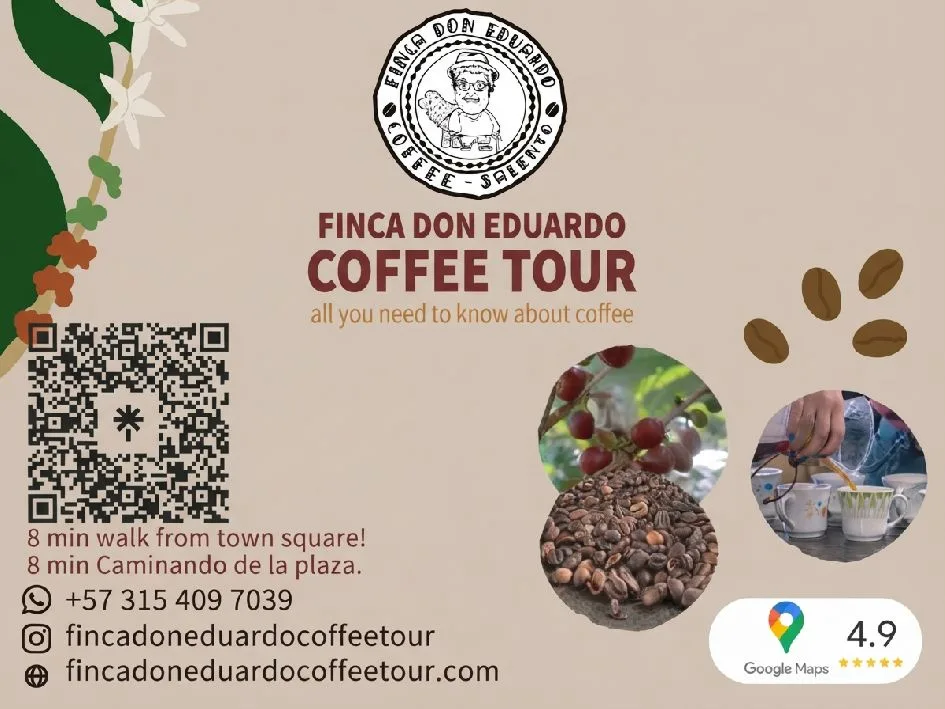
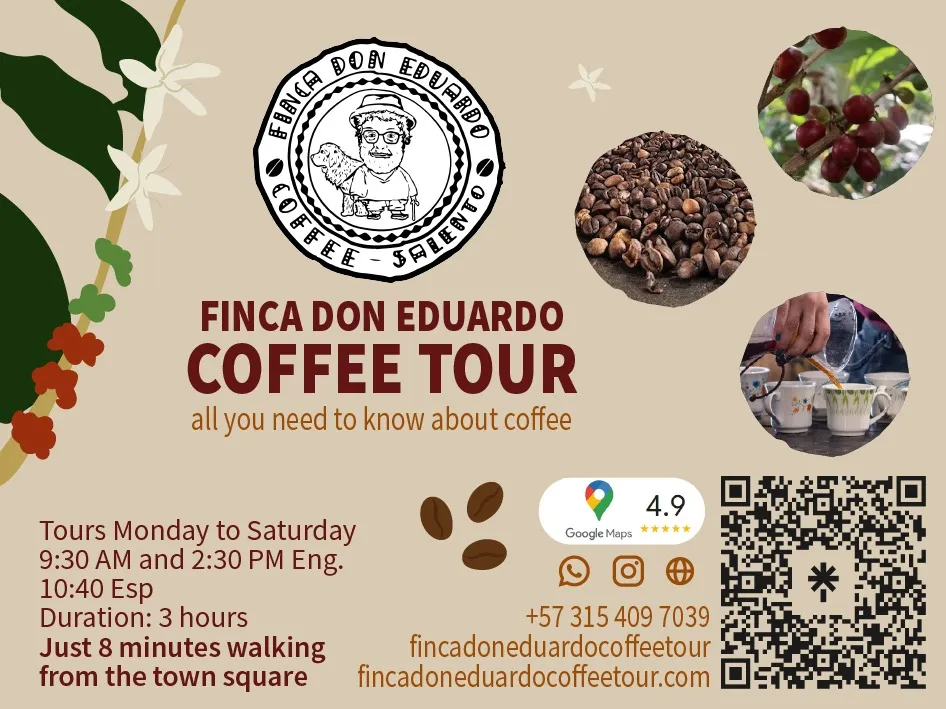
Finca Don Eduardo: textos nuevos, 8 min de la plaza y arte actualizado

diff --git a/public/paginas-pautantes/finca-don-eduardo-coffee-tour/index.html b/public/paginas-pautantes/finca-don-eduardo-coffee-tour/index.html
@@ -3,20 +3,20 @@
   <head>
     <meta charset="UTF-8" />
     <meta name="viewport" content="width=device-width, initial-scale=1.0" />
-    <meta name="description" content="Coffee tour con Don Eduardo en Salento: $100.000 COP por persona, salidas en inglés y español, ~3 horas. A 4 km de la plaza, Willys/Jeep $9.000. Reserva previa." />
+    <meta name="description" content="Coffee tour de 3 horas en Salento: historia, proceso del café, tostión artesanal y taza final. $100.000 · Inglés 9:30/2:30 · Español 10:40 · 8 min caminando de la plaza." />
     <title>Finca Don Eduardo Coffee Tour | Vive Salento directamente</title>
     <link rel="canonical" href="https://www.salentoalamano.com/paginas-pautantes/finca-don-eduardo-coffee-tour/" />
     <meta property="og:type" content="website" />
     <meta property="og:site_name" content="Salento a la Mano" />
     <meta property="og:title" content="Finca Don Eduardo Coffee Tour | Vive Salento directamente" />
-    <meta property="og:description" content="Coffee tour con Don Eduardo en Salento: $100.000 COP por persona, salidas en inglés y español, ~3 horas. A 4 km de la plaza, Willys/Jeep $9.000. Reserva previa." />
+    <meta property="og:description" content="Coffee tour de 3 horas en Salento: historia, proceso del café, tostión artesanal y taza final. $100.000 · Inglés 9:30/2:30 · Español 10:40 · 8 min caminando de la plaza." />
     <meta property="og:url" content="https://www.salentoalamano.com/paginas-pautantes/finca-don-eduardo-coffee-tour/" />
-    <meta property="og:image" content="https://www.salentoalamano.com/pautas/coffee-tour-finca-don-eduardo/imagenes/IMG_0224.webp" />
+    <meta property="og:image" content="https://www.salentoalamano.com/pautas/coffee-tour-finca-don-eduardo/eduardo-arte-publicitario.webp" />
     <meta property="og:locale" content="es_CO" />
     <meta name="twitter:card" content="summary_large_image" />
     <meta name="twitter:title" content="Finca Don Eduardo Coffee Tour | Vive Salento directamente" />
-    <meta name="twitter:description" content="Coffee tour con Don Eduardo en Salento: $100.000 COP por persona, salidas en inglés y español, ~3 horas. A 4 km de la plaza, Willys/Jeep $9.000. Reserva previa." />
-    <meta name="twitter:image" content="https://www.salentoalamano.com/pautas/coffee-tour-finca-don-eduardo/imagenes/IMG_0224.webp" />
+    <meta name="twitter:description" content="Coffee tour de 3 horas en Salento: historia, proceso del café, tostión artesanal y taza final. $100.000 · Inglés 9:30/2:30 · Español 10:40 · 8 min caminando de la plaza." />
+    <meta name="twitter:image" content="https://www.salentoalamano.com/pautas/coffee-tour-finca-don-eduardo/eduardo-arte-publicitario.webp" />
     <style>
       @import url('https://fonts.googleapis.com/css2?family=DM+Sans:wght@400;500;600;700&family=Fraunces:opsz,wght@9..144,500;9..144,600&display=swap');
       :root { --paper:#f5f1e8; --ink:#1f2d26; --muted:#59665f; --line:#d9d0bf; --coral:#dd7f5d; --yellow:#e7c77b; --white:#fff; }
@@ -28,7 +28,7 @@
       .hero { display:grid; grid-template-columns:1.1fr .9fr; gap:24px; align-items:stretch; } .hero-copy,.hero-image,.section { background:var(--white); border:1px solid var(--line); border-radius:24px; }
       .hero-copy { padding:34px; } .eyebrow { color:var(--coral); text-transform:uppercase; letter-spacing:.12em; font-size:11px; font-weight:700; }
       h1 { font-size:clamp(2.3rem,5vw,4.8rem); line-height:1.02; margin:14px 0; } .lead { color:var(--muted); line-height:1.7; font-size:1.08rem; max-width:650px; }
-      .hero-image { min-height:360px; background:linear-gradient(rgba(0,0,0,.08),rgba(0,0,0,.25)),url('/pautas/coffee-tour-finca-don-eduardo/imagenes/IMG_0224.webp') center/cover; }
+      .hero-image { min-height:360px; background:linear-gradient(rgba(0,0,0,.08),rgba(0,0,0,.25)),url('/pautas/coffee-tour-finca-don-eduardo/eduardo-arte-publicitario.webp') center/cover; }
       .highlights { display:flex; flex-wrap:wrap; gap:8px; margin:22px 0; } .highlight,.tag { padding:8px 11px; border:1px solid var(--line); border-radius:999px; background:#f3ead6; font-size:12px; font-weight:700; }
       .section { padding:26px; margin-top:24px; } h2 { margin:0 0 16px; font-size:1.5rem; } .two-col { display:grid; grid-template-columns:1fr 1fr; gap:24px; }
       .gallery { display:grid; grid-template-columns:repeat(3,1fr); gap:12px; } .gallery img { width:100%; height:190px; object-fit:cover; border-radius:16px; border:1px solid var(--line); }
@@ -40,22 +40,22 @@
     <link rel="stylesheet" href="/page-theme.css" />
     <link rel="stylesheet" href="/pautante-theme.css" />
     <script type="application/ld+json">{"@context":"https://schema.org","@type":"BreadcrumbList","itemListElement":[{"@type":"ListItem","position":1,"name":"Inicio","item":"https://www.salentoalamano.com/"},{"@type":"ListItem","position":2,"name":"Coffee Tours","item":"https://www.salentoalamano.com/categorias/coffee-tours.html"},{"@type":"ListItem","position":3,"name":"Finca Don Eduardo Coffee Tour"}]}</script>
-    <script type="application/ld+json">{"@context":"https://schema.org","@type":"LocalBusiness","name":"Finca Don Eduardo Coffee Tour","description":"Coffee tour con Don Eduardo en Salento: $100.000 COP por persona, salidas en inglés y español, ~3 horas. A 4 km de la plaza, Willys/Jeep $9.000. Reserva previa.","url":"https://www.salentoalamano.com/paginas-pautantes/finca-don-eduardo-coffee-tour/","image":"https://www.salentoalamano.com/pautas/coffee-tour-finca-don-eduardo/imagenes/IMG_0224.webp","address":{"@type":"PostalAddress","addressLocality":"Salento","addressRegion":"Quindío","addressCountry":"CO","streetAddress":"Calle 7 # 1 - 04, Salento, Quindío"},"geo":{"@type":"GeoCoordinates","latitude":4.638,"longitude":-75.569},"telephone":"+57 315 409 7039","email":"theplantationhousesalento@yahoo.co.uk","priceRange":"$$","areaServed":{"@type":"City","name":"Salento","containedIn":{"@type":"State","name":"Quindío"}},"aggregateRating":{"@type":"AggregateRating","ratingValue":4.9,"reviewCount":1,"bestRating":5,"worstRating":1},"openingHoursSpecification":{"@type":"OpeningHoursSpecification","dayOfWeek":["Monday","Tuesday","Wednesday","Thursday","Friday","Saturday","Sunday"]}}</script>
+    <script type="application/ld+json">{"@context":"https://schema.org","@type":"LocalBusiness","name":"Finca Don Eduardo Coffee Tour","description":"Coffee tour de 3 horas en Salento: historia, proceso del café, tostión artesanal y taza final. $100.000 · Inglés 9:30/2:30 · Español 10:40 · 8 min caminando de la plaza.","url":"https://www.salentoalamano.com/paginas-pautantes/finca-don-eduardo-coffee-tour/","image":"https://www.salentoalamano.com/pautas/coffee-tour-finca-don-eduardo/eduardo-arte-publicitario.webp","address":{"@type":"PostalAddress","addressLocality":"Salento","addressRegion":"Quindío","addressCountry":"CO","streetAddress":"Calle 7 # 1 - 04, Salento, Quindío"},"geo":{"@type":"GeoCoordinates","latitude":4.638,"longitude":-75.569},"telephone":"+57 315 409 7039","email":"theplantationhousesalento@yahoo.co.uk","priceRange":"$$","areaServed":{"@type":"City","name":"Salento","containedIn":{"@type":"State","name":"Quindío"}},"aggregateRating":{"@type":"AggregateRating","ratingValue":4.9,"reviewCount":1,"bestRating":5,"worstRating":1},"openingHoursSpecification":{"@type":"OpeningHoursSpecification","dayOfWeek":["Monday","Tuesday","Wednesday","Thursday","Friday","Saturday","Sunday"]}}</script>
   </head>
   <body>
     <main class="container">
       <header class="topbar"><a class="brand" href="/"><img src="/logo_salento2026.webp" alt="Salento a la Mano" class="brand-logo" style="width:64px;height:64px;object-fit:contain;border-radius:50%"/><span>Salento a la Mano</span><span aria-hidden="true" style="opacity:.4">×</span><img src="/pautas/coffee-tour-finca-don-eduardo/imagenes/logo-finca-don-eduardo.webp" alt="Logo pautante" class="brand-logo" style="width:64px;height:64px;object-fit:contain;border-radius:50%;border:1px solid var(--line)" /></a><nav class="top-actions"><a class="button" href="/">Inicio</a><a class="button" href="/categorias/coffee-tours.html">Ver categoría</a></nav></header>
       <section class="hero">
-        <div class="hero-copy"><div class="eyebrow">Coffee Tours · contacto directo</div><h1>Finca Don Eduardo Coffee Tour</h1><p class="lead">Coffee tour con Don Eduardo en Salento: $100.000 COP por persona, salidas en inglés y español, ~3 horas. A 4 km de la plaza, Willys/Jeep $9.000. Reserva previa.</p>
-          <div class="highlights"><span class="highlight">Duración: 3 horas</span><span class="highlight">Rango: $$</span><span class="highlight">Inglés 9:30 a.m. · 2:30 p.m. · Español 10:40 a.m.</span></div>
+        <div class="hero-copy"><div class="eyebrow">Coffee Tours · contacto directo</div><h1>Finca Don Eduardo Coffee Tour</h1><p class="lead">Finca Don Eduardo: todo lo que necesitas saber sobre café. El proyecto empezó con Don Eduardo y es la continuación de su legado de más de 15 años enseñando a turistas de todo el mundo cómo se cultiva el café en el Quindío. Es uno de los recorridos más completos: conocerás la historia, visitarás la finca, verás el proceso completo y entenderás los procesos orgánicos que manejan, terminando con una tostión artesanal y una taza de café.</p>
+          <div class="highlights"><span class="highlight">Duración: 3 horas</span><span class="highlight">$100.000 COP</span><span class="highlight">Inglés 9:30 a.m. · 2:30 p.m. · Español 10:40 a.m.</span><span class="highlight">A 8 min caminando de la plaza</span></div>
           <div class="actions"><a class="button primary" href="https://wa.me/573154097039" target="_blank" rel="noreferrer">Reservar por WhatsApp</a><a class="button dark" href="tel:+573154097039">Llamar ahora</a><a class="button" href="https://www.google.com/maps/search/Calle%207%20%23%201%20-%2004%2C%20Salento%2C%20Quind%C3%ADo" target="_blank" rel="noreferrer">Cómo llegar</a><a class="button" href="https://fincadoneduardocoffeetour.com" target="_blank" rel="noreferrer">Sitio oficial</a></div>
         </div><div class="hero-image" aria-label="Finca Don Eduardo Coffee Tour"></div>
       </section>
       
-      <section class="section service-section"><h2>Plan de la experiencia</h2><div class="service-grid"><div><strong>Incluye</strong><ul><li>Tour completo del proceso del café</li><li>Degustación de café</li><li>Guía certificado</li><li>Información educativa</li></ul><strong>Qué llevar</strong><ul><li>Ropa cómoda</li><li>Calzado para caminar</li></ul></div><div><strong>Duración</strong><p>3 horas</p><strong>Dificultad</strong><p>Fácil</p><strong>Punto de encuentro</strong><p>Finca Don Eduardo · 4 km a pie o Willys/Jeep desde la plaza ($9.000)</p><strong>Idiomas</strong><p>Inglés, Español</p><strong>Tarifas verificadas</strong><p>$100.000 COP por persona. Salidas en inglés 9:30 a.m. y 2:30 p.m.; en español 10:40 a.m. con reserva previa.</p></div></div><div class="actions"><a class="button primary" href="https://wa.me/573154097039">Reservar experiencia</a></div></section>
+      <section class="section service-section"><h2>Plan de la experiencia</h2><div class="service-grid"><div><strong>Incluye</strong><ul><li>Historia y proceso completo del café</li><li>Recorrido por semillero, cafetal, beneficio y secadero</li><li>Procesos orgánicos de la finca</li><li>Tostión artesanal</li><li>Taza de café</li></ul><strong>Qué llevar</strong><ul><li>Ropa cómoda</li><li>Calzado para caminar</li></ul></div><div><strong>Duración</strong><p>3 horas</p><strong>Dificultad</strong><p>Fácil</p><strong>Punto de encuentro</strong><p>Finca Don Eduardo · a 8 min caminando de la plaza</p><strong>Idiomas</strong><p>Inglés, Español</p><strong>Tarifas verificadas</strong><p>$100.000 COP por persona. Salidas en inglés 9:30 a.m. y 2:30 p.m. (sin reserva); en español 10:40 a.m. (recomendamos reservar).</p></div></div><div class="actions"><a class="button primary" href="https://wa.me/573154097039">Reservar experiencia</a></div></section>
       
-      <section class="section"><h2>Conoce la experiencia</h2><div class="two-col"><div><p class="trust">Coffee tour con Don Eduardo en Salento: $100.000 COP por persona, salidas en inglés y español, ~3 horas. A 4 km de la plaza, Willys/Jeep $9.000. Reserva previa.</p><p class="verified">✓ Información verificada en el catálogo local</p></div><div class="facts"><div class="fact"><strong>Ubicación</strong>Calle 7 # 1 - 04, Salento, Quindío</div><div class="fact"><strong>Referencia</strong>4 km a pie desde Salento · Willys/Jeep desde la plaza $9.000</div><div class="fact"><strong>Horario</strong>Salidas en inglés 9:30 a.m. y 2:30 p.m.; en español 10:40 a.m. (requiere reserva previa). $100.000 COP por persona.</div></div></div></section>
-      <section class="section"><h2>Galería de imágenes</h2><div class="gallery"><img src="/pautas/coffee-tour-finca-don-eduardo/imagenes/IMG_0224.webp" alt="Finca Don Eduardo Coffee Tour foto 1" loading="lazy"/><img src="/pautas/coffee-tour-finca-don-eduardo/imagenes/IMG_0366.webp" alt="Finca Don Eduardo Coffee Tour foto 2" loading="lazy"/><img src="/pautas/coffee-tour-finca-don-eduardo/imagenes/IMG_0372.webp" alt="Finca Don Eduardo Coffee Tour foto 3" loading="lazy"/><img src="/pautas/coffee-tour-finca-don-eduardo/imagenes/IMG_9320.webp" alt="Finca Don Eduardo Coffee Tour foto 4" loading="lazy"/><img src="/pautas/coffee-tour-finca-don-eduardo/imagenes/IMG_9326.webp" alt="Finca Don Eduardo Coffee Tour foto 5" loading="lazy"/><img src="/pautas/coffee-tour-finca-don-eduardo/imagenes/IMG_9360_1.webp" alt="Finca Don Eduardo Coffee Tour foto 6" loading="lazy"/></div></section>
+      <section class="section"><h2>Conoce la experiencia</h2><div class="two-col"><div><p class="trust">Finca Don Eduardo es el sueño de un hombre inglés y su esposa colombiana, pioneros del turismo en Salento. Hoy la finca sigue funcionando en manos de su hija, una caficultora que ha decidido honrar su historia familiar continuando una de las experiencias de café mejor valoradas de Salento.</p><p class="trust">El recorrido de 3 horas empieza con la historia del café y pasa por todo el proceso de la finca: el semillero, el cafetal, el beneficio y el secadero, y finaliza con una tostión artesanal y una taza de café para conocer mejor sus sabores.</p><p class="trust">Nuestros recorridos en inglés (9:30 y 2:30) no requieren reserva; también tenemos el tour en español a las 10:40 y para esta opción recomendamos reservar.</p><p class="verified">✓ Información verificada en el catálogo local</p></div><div class="facts"><div class="fact"><strong>Ubicación</strong>Calle 7 # 1 - 04, Salento, Quindío</div><div class="fact"><strong>Referencia</strong>A 8 min caminando de la plaza</div><div class="fact"><strong>Horario</strong>Inglés 9:30 a.m. y 2:30 p.m. (sin reserva); español 10:40 a.m. (recomendamos reservar). $100.000 COP por persona.</div></div></div></section>
+      <section class="section"><h2>Galería de imágenes</h2><div class="gallery"><img src="/pautas/coffee-tour-finca-don-eduardo/eduardo-arte-publicitario.webp" alt="Finca Don Eduardo Coffee Tour arte oficial" loading="lazy"/><img src="/pautas/coffee-tour-finca-don-eduardo/imagenes/IMG_0224.webp" alt="Finca Don Eduardo Coffee Tour foto 1" loading="lazy"/><img src="/pautas/coffee-tour-finca-don-eduardo/imagenes/IMG_0366.webp" alt="Finca Don Eduardo Coffee Tour foto 2" loading="lazy"/><img src="/pautas/coffee-tour-finca-don-eduardo/imagenes/IMG_0372.webp" alt="Finca Don Eduardo Coffee Tour foto 3" loading="lazy"/><img src="/pautas/coffee-tour-finca-don-eduardo/imagenes/IMG_9320.webp" alt="Finca Don Eduardo Coffee Tour foto 4" loading="lazy"/><img src="/pautas/coffee-tour-finca-don-eduardo/imagenes/IMG_9326.webp" alt="Finca Don Eduardo Coffee Tour foto 5" loading="lazy"/><img src="/pautas/coffee-tour-finca-don-eduardo/imagenes/IMG_9360_1.webp" alt="Finca Don Eduardo Coffee Tour foto 6" loading="lazy"/></div></section>
       
       <section class="section" id="menu-interactivo">
         <h2>Tours y experiencias</h2>
@@ -89,12 +89,12 @@
           </div>
         </div>
       </div>
-      <section class="section"><h2>Antes de confirmar tu visita</h2><div class="two-col"><div><p class="trust">¿Cuál es el horario de Finca Don Eduardo Coffee Tour? Salidas en inglés 9:30 a.m. y 2:30 p.m.; en español 10:40 a.m. (requiere reserva previa). $100.000 COP por persona.</p><p class="trust">¿Cuánto cuesta? $100.000 COP por persona. Salidas en inglés 9:30 a.m. y 2:30 p.m.; en español 10:40 a.m. con reserva previa.</p><p class="trust">¿Cómo reservo? Contacto directo por WhatsApp, sin intermediarios ni comisiones.</p></div><div class="facts"><div class="fact"><strong>Punto de encuentro</strong>Finca Don Eduardo · 4 km a pie o Willys/Jeep desde la plaza ($9.000)</div><div class="fact"><strong>Cómo llegar</strong><a href="https://www.google.com/maps/search/Calle%207%20%23%201%20-%2004%2C%20Salento%2C%20Quind%C3%ADo" target="_blank" rel="noreferrer">Abrir en Google Maps</a></div><div class="fact"><strong>Reseñas</strong>Las reseñas se publican en la ficha interactiva del directorio</div></div></div></section>
+      <section class="section"><h2>Antes de confirmar tu visita</h2><div class="two-col"><div><p class="trust">¿Cuál es el horario de Finca Don Eduardo Coffee Tour? Salidas en inglés 9:30 a.m. y 2:30 p.m. (no requieren reserva); en español 10:40 a.m. (recomendamos reservar). $100.000 COP por persona.</p><p class="trust">¿Cuánto cuesta? $100.000 COP por persona por un recorrido de 3 horas que incluye tostión artesanal y una taza de café.</p><p class="trust">¿Cómo reservo? Contacto directo por WhatsApp, sin intermediarios ni comisiones.</p></div><div class="facts"><div class="fact"><strong>Punto de encuentro</strong>Finca Don Eduardo · a 8 min caminando de la plaza</div><div class="fact"><strong>Cómo llegar</strong><a href="https://www.google.com/maps/search/Calle%207%20%23%201%20-%2004%2C%20Salento%2C%20Quind%C3%ADo" target="_blank" rel="noreferrer">Abrir en Google Maps</a></div><div class="fact"><strong>Reseñas</strong>Las reseñas se publican en la ficha interactiva del directorio</div></div></div></section>
       <section class="section"><h2>Lo que puedes encontrar</h2><div class="tags"><span class="tag">coffee tour</span><span class="tag">finca cafetera</span><span class="tag">tour de café</span><span class="tag">inglés</span><span class="tag">español</span><span class="tag">salento</span></div></section>
       <nav class="bottom-nav" aria-label="Volver" style="display:flex;flex-wrap:wrap;gap:10px;margin-top:28px"><a class="button primary" href="/">Volver al inicio</a><a class="button dark" href="/">Ir a página principal</a><a class="button" href="/categorias/">Ver categorías</a></nav>
     </main>
     
     <script src="/pautante-common.js"></script>
-    <script>PautanteCommon.initMenu({"containerId":"menuGrid","items":[{"id":1,"cat":"tours","nombre":"English Coffee Tour","precio":100000,"desc":"3 horas · Lun–sáb 9:30 AM y 2:30 PM","img":"/pautas/coffee-tour-finca-don-eduardo/imagenes/IMG_0224.webp"},{"id":2,"cat":"tours","nombre":"Recorrido en Español","precio":100000,"desc":"3 horas · Lun–sáb 10:40 AM · requiere reserva previa · mín. 2 personas","img":"/pautas/coffee-tour-finca-don-eduardo/imagenes/IMG_0366.webp"},{"id":3,"cat":"cotizar","nombre":"Private Tour personalizado","precio":0,"desc":"Cotización directa · pago con tarjeta +6%","img":"/pautas/coffee-tour-finca-don-eduardo/imagenes/IMG_0372.webp"},{"id":4,"cat":"incluye","nombre":"Historia y proceso del café","precio":0,"desc":"","img":"/pautas/coffee-tour-finca-don-eduardo/imagenes/IMG_0736.webp"},{"id":5,"cat":"incluye","nombre":"Visita a plantación","precio":0,"desc":"","img":"/pautas/coffee-tour-finca-don-eduardo/imagenes/IMG_3229.webp"},{"id":6,"cat":"incluye","nombre":"Tostión y molienda del propio café","precio":0,"desc":"","img":"/pautas/coffee-tour-finca-don-eduardo/imagenes/IMG_8454.webp"},{"id":7,"cat":"incluye","nombre":"Degustación de café especial","precio":0,"desc":"","img":"/pautas/coffee-tour-finca-don-eduardo/imagenes/IMG_9079.webp"}],"categories":[{"id":"todas","label":"Todas"},{"id":"tours","label":"Tours"},{"id":"cotizar","label":"Cotizar"},{"id":"incluye","label":"Incluye"}],"whatsapp":"573154097039","businessName":"Finca Don Eduardo Coffee Tour","currency":"COP","showSearch":true,"showCurrency":true,"precioLabel":"por persona"});</script>
+    <script>PautanteCommon.initMenu({"containerId":"menuGrid","items":[{"id":1,"cat":"tours","nombre":"English Coffee Tour","precio":100000,"desc":"3 horas · Lun–sáb 9:30 AM y 2:30 PM · sin reserva","img":"/pautas/coffee-tour-finca-don-eduardo/imagenes/IMG_0224.webp"},{"id":2,"cat":"tours","nombre":"Recorrido en Español","precio":100000,"desc":"3 horas · Lun–sáb 10:40 AM · requiere reserva previa · mín. 2 personas","img":"/pautas/coffee-tour-finca-don-eduardo/imagenes/IMG_0366.webp"},{"id":3,"cat":"cotizar","nombre":"Private Tour personalizado","precio":0,"desc":"Cotización directa · pago con tarjeta +6%","img":"/pautas/coffee-tour-finca-don-eduardo/imagenes/IMG_0372.webp"},{"id":4,"cat":"incluye","nombre":"Historia y proceso del café","precio":0,"desc":"","img":"/pautas/coffee-tour-finca-don-eduardo/imagenes/IMG_0736.webp"},{"id":5,"cat":"incluye","nombre":"Visita a plantación","precio":0,"desc":"","img":"/pautas/coffee-tour-finca-don-eduardo/imagenes/IMG_3229.webp"},{"id":6,"cat":"incluye","nombre":"Tostión y molienda del propio café","precio":0,"desc":"","img":"/pautas/coffee-tour-finca-don-eduardo/imagenes/IMG_8454.webp"},{"id":7,"cat":"incluye","nombre":"Degustación de café especial","precio":0,"desc":"","img":"/pautas/coffee-tour-finca-don-eduardo/imagenes/IMG_9079.webp"}],"categories":[{"id":"todas","label":"Todas"},{"id":"tours","label":"Tours"},{"id":"cotizar","label":"Cotizar"},{"id":"incluye","label":"Incluye"}],"whatsapp":"573154097039","businessName":"Finca Don Eduardo Coffee Tour","currency":"COP","showSearch":true,"showCurrency":true,"precioLabel":"por persona"});</script>
   </body>
 </html>

diff --git a/src/components/HomeBanners.tsx b/src/components/HomeBanners.tsx
@@ -60,7 +60,7 @@ const BANNERS: HomeBanner[] = [
     eyebrow: 'Coffee tour',
     title: 'Finca Don Eduardo',
     desc: 'Siembra, cata y recorrido por la finca.',
-    href: '/paginas-pautantes/coffee-tour-finca-don-eduardo/',
+    href: '/paginas-pautantes/finca-don-eduardo-coffee-tour/',
     cta: 'Ver página',
     image: '/pautas/coffee-tour-finca-don-eduardo/eduardo-arte-publicitario.webp',
     imageAlt: 'Arte publicitario Finca Don Eduardo',
